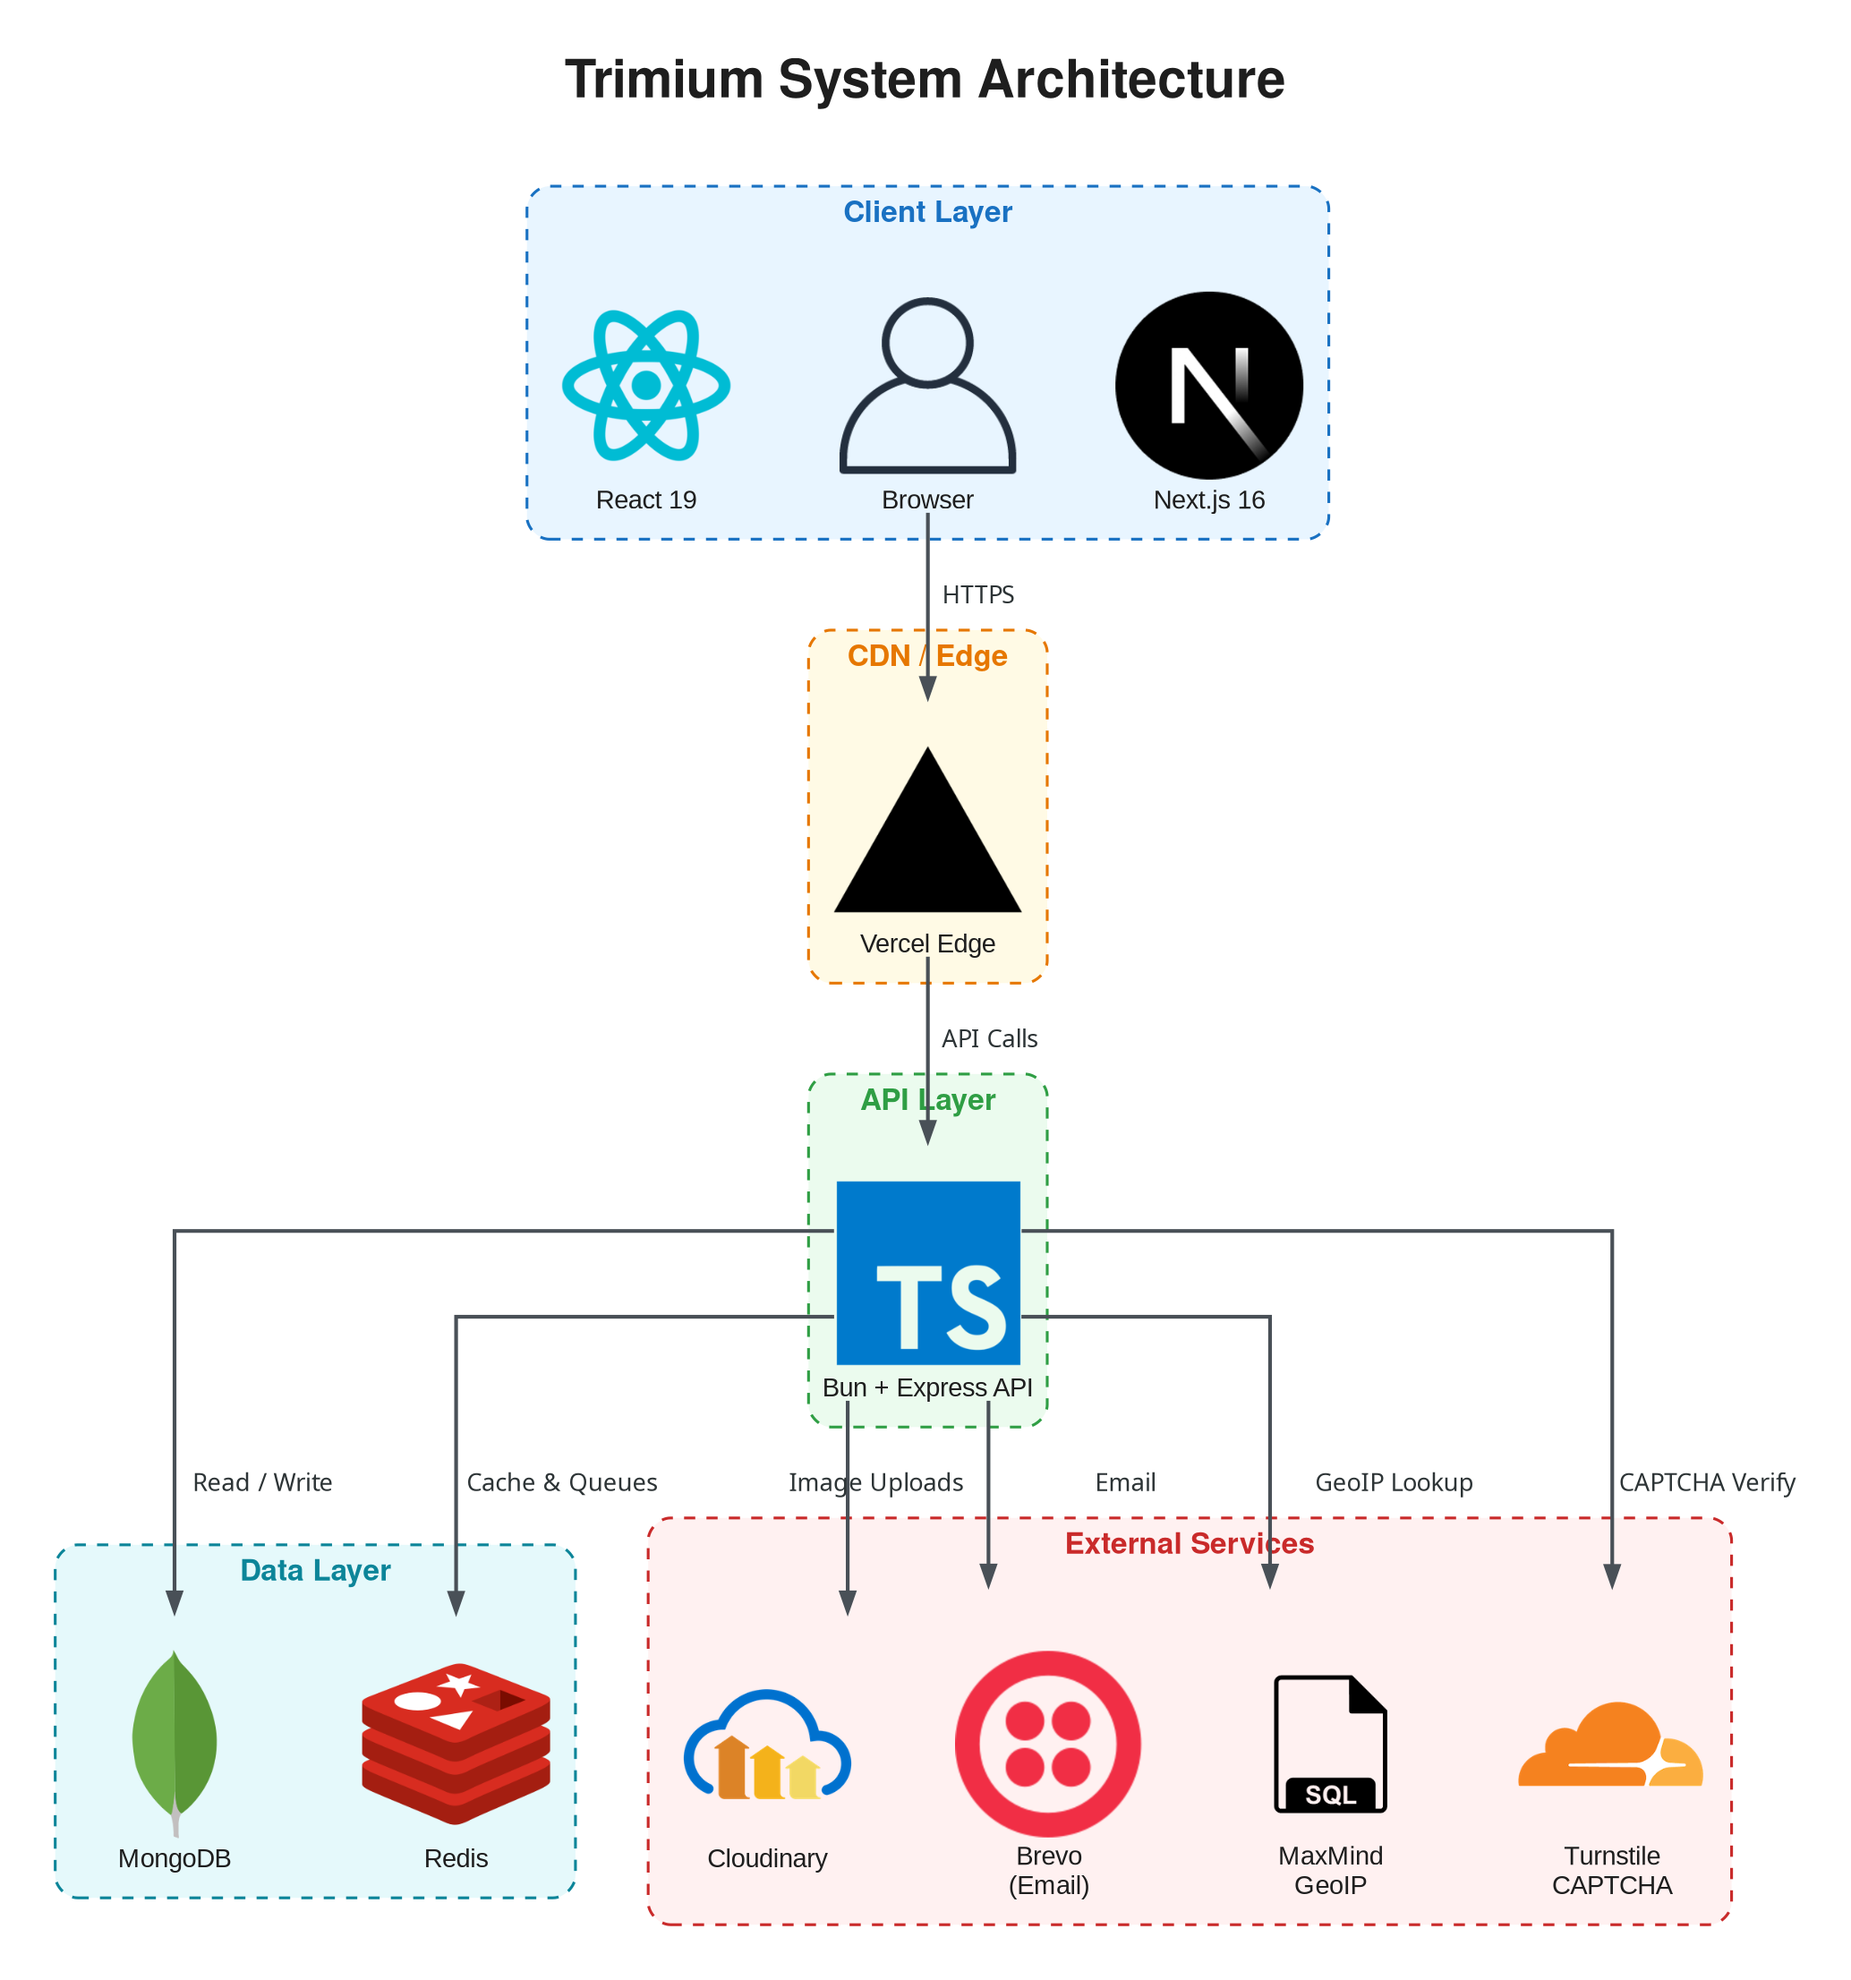
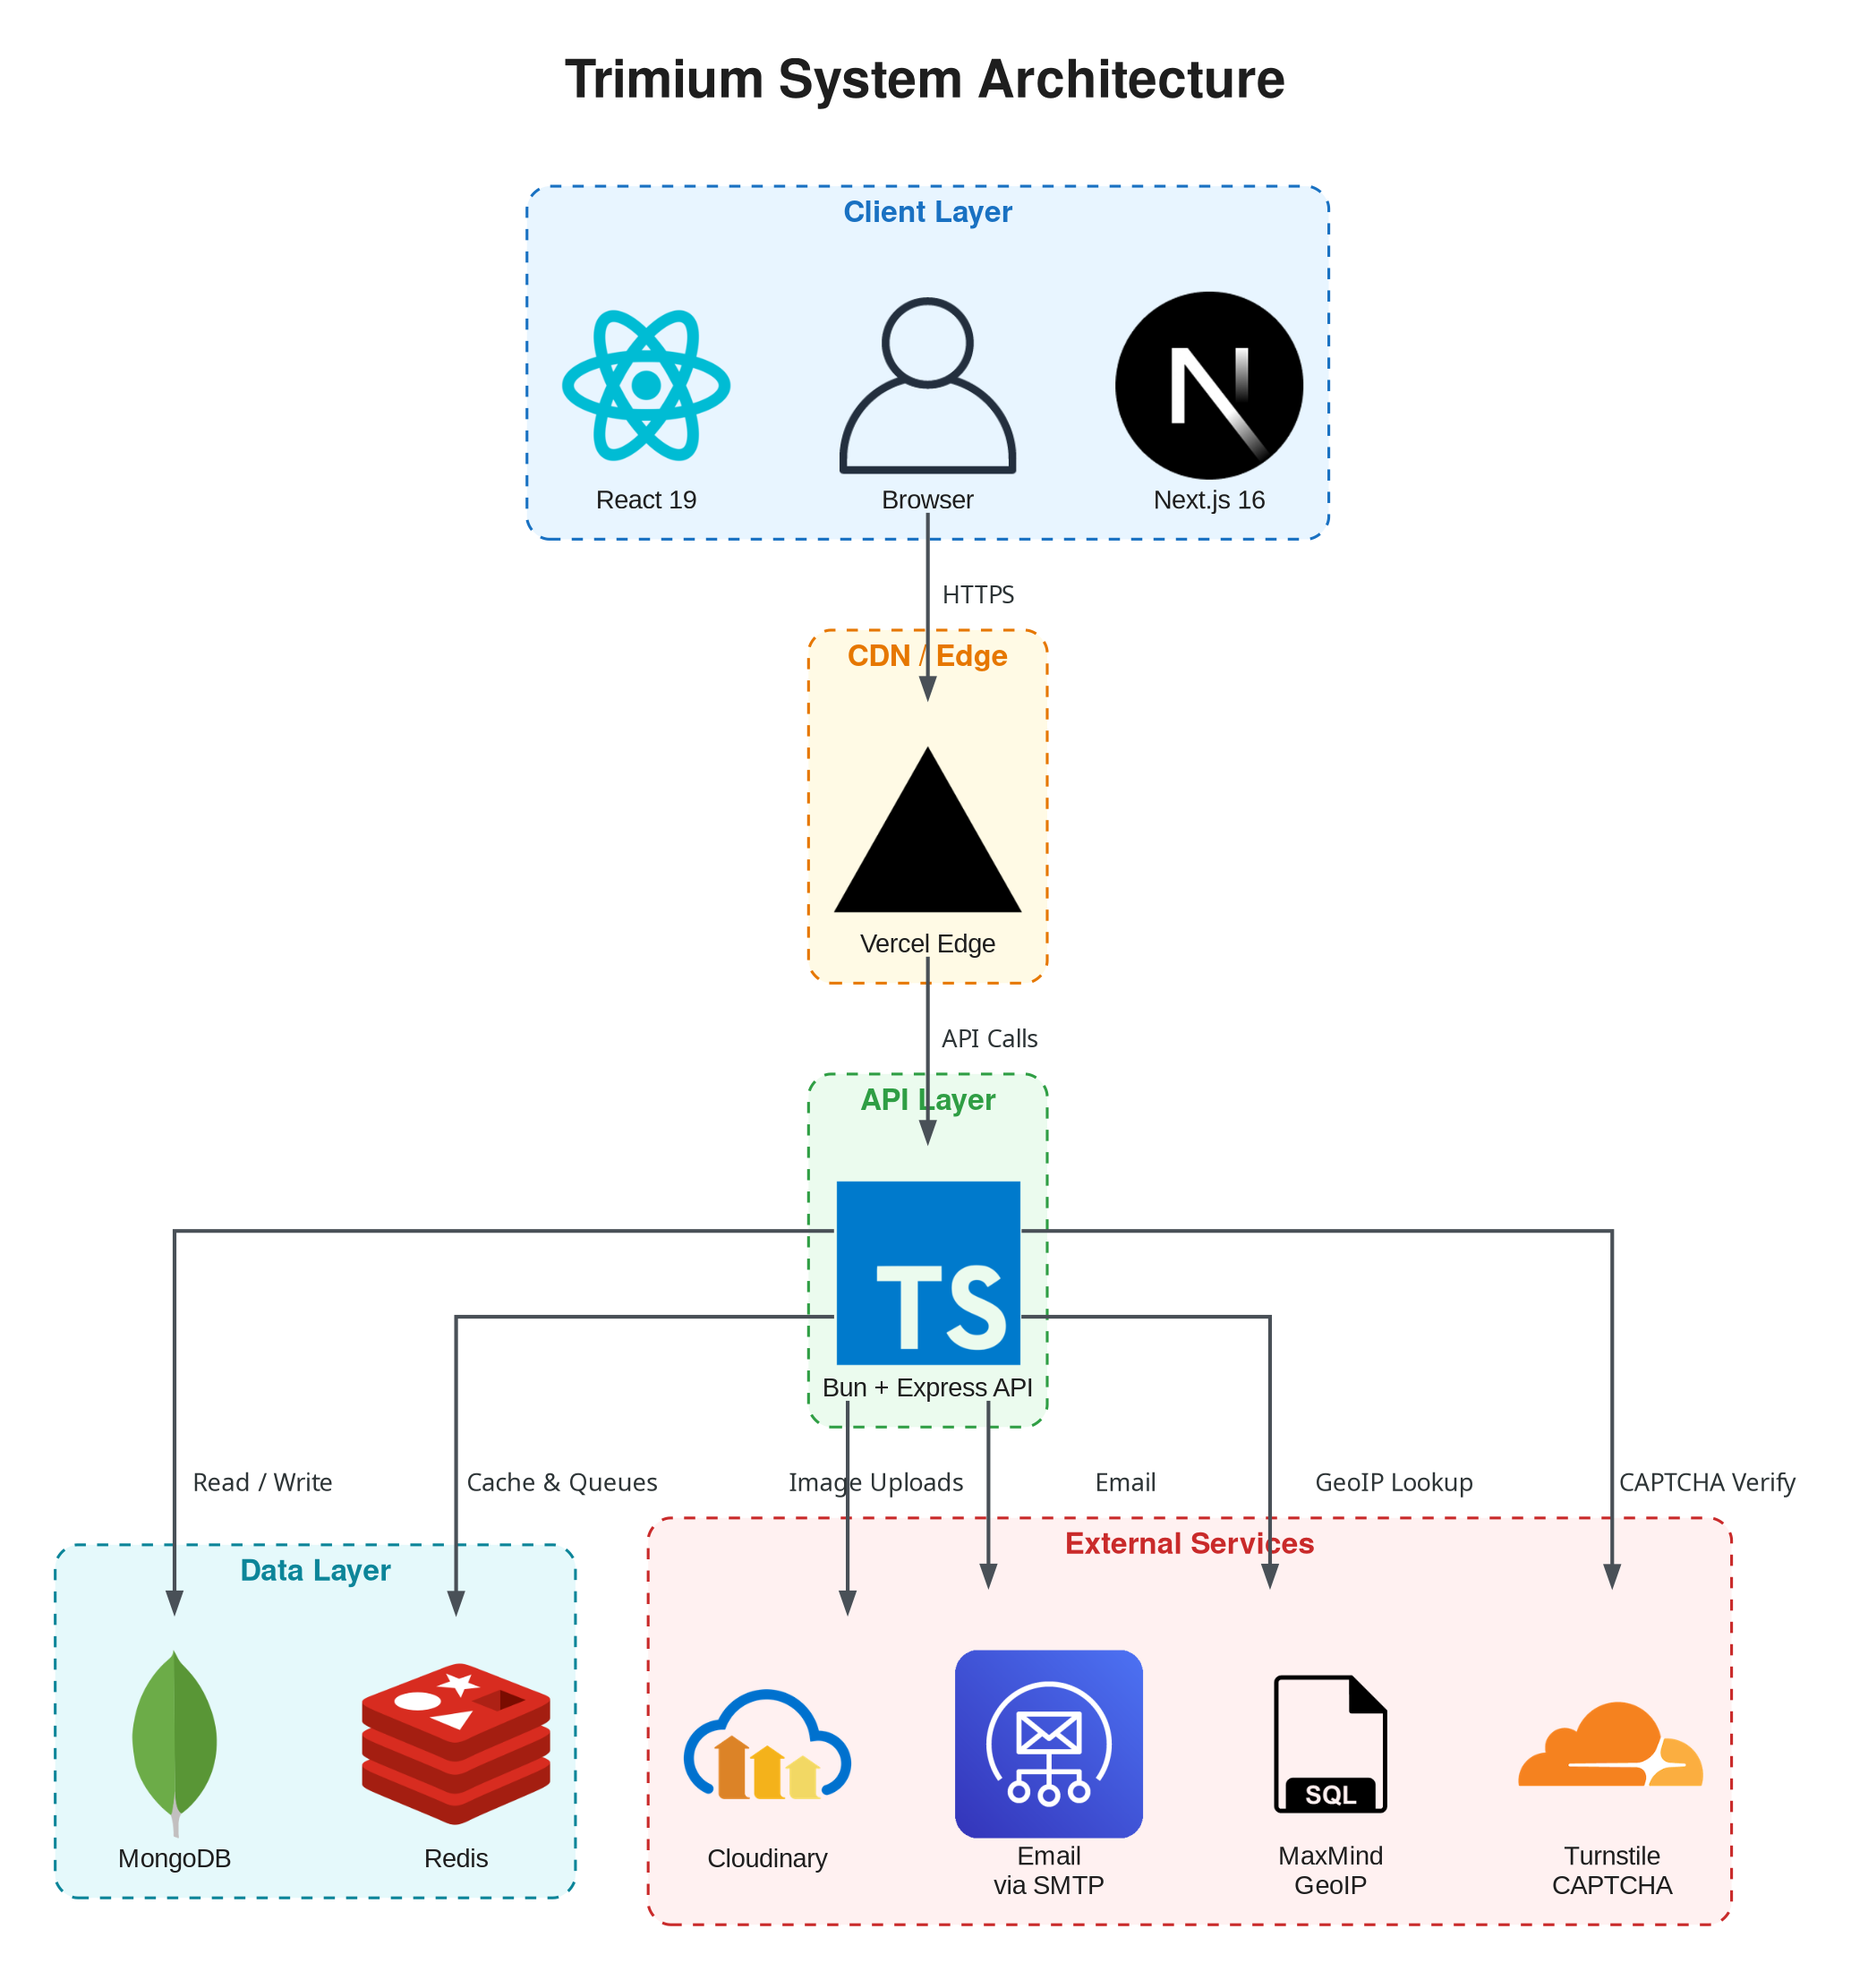
feat: update architecture diagram to replace Twilio with AWS SES for email service

Changed region(s): [[0.4952, 0.811, 0.619, 0.967]]

diff --git a/scripts/generate-architecture.py b/scripts/generate-architecture.py
@@ -7,9 +7,9 @@ from diagrams.programming.language import TypeScript
 from diagrams.onprem.database import MongoDB
 from diagrams.onprem.inmemory import Redis
 from diagrams.onprem.client import User
+from diagrams.aws.engagement import SimpleEmailServiceSes
 from diagrams.saas.cdn import Cloudflare
 from diagrams.saas.media import Cloudinary
-from diagrams.saas.communication import Twilio
 from diagrams.generic.database import SQL
 import os
 
@@ -123,7 +123,7 @@ def gen(dark: bool):
         # ---- External Services ----
         with Cluster("External Services", graph_attr=cattr("red")):
             cloudinary = Cloudinary("Cloudinary")
-            brevo = Twilio("Brevo\n(Email)")
+            ses = SimpleEmailServiceSes("Email\nvia SMTP")
             maxmind = SQL("MaxMind\nGeoIP")
             turnstile = Cloudflare("Turnstile\nCAPTCHA")
 
@@ -136,7 +136,7 @@ def gen(dark: bool):
         api >> e(label="  Read / Write  ") >> mongo
         api >> e(label="  Cache & Queues  ") >> redis
         api >> e(label="  Image Uploads  ") >> cloudinary
-        api >> e(label="  Email  ") >> brevo
+        api >> e(label="  Email  ") >> ses
         api >> e(label="  GeoIP Lookup  ") >> maxmind
         # CAPTCHA verification is a server-side call the API makes to
         # Cloudflare, mirroring the other External Service calls above
